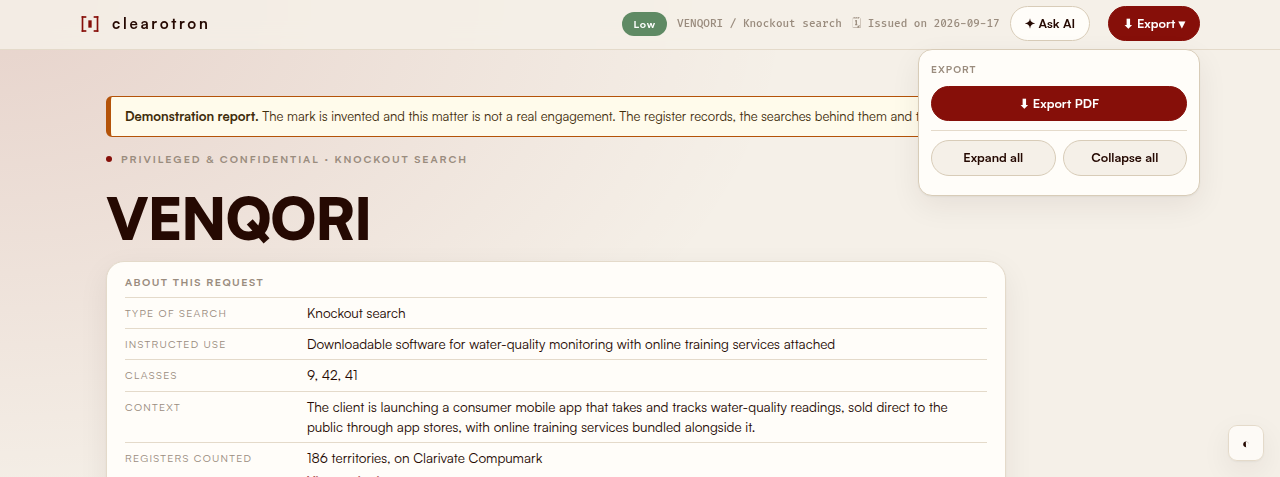
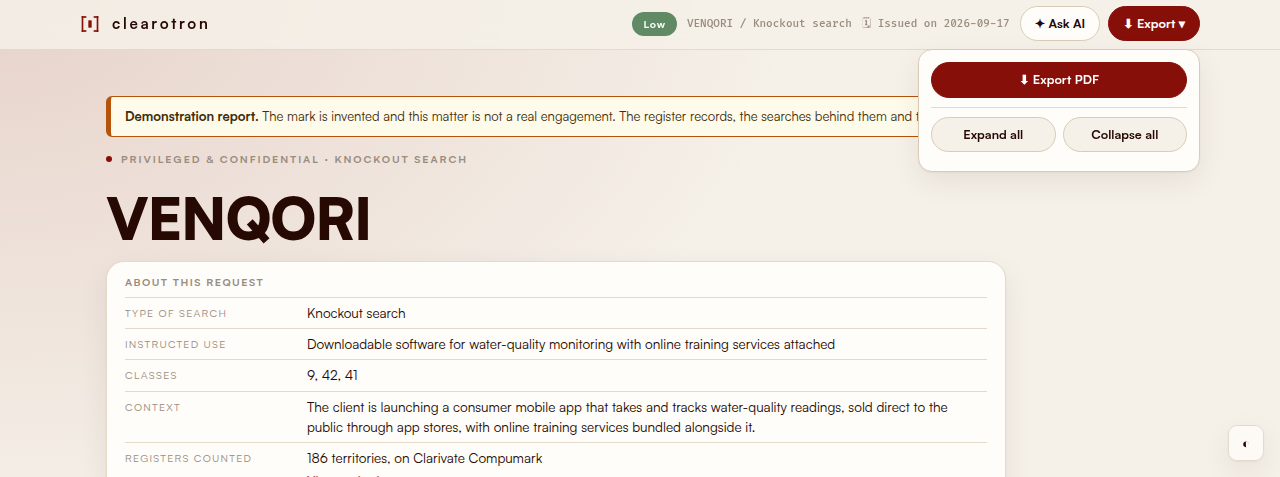
Report pack evidence: the final build, with the withdrawn sentences' images removed

Changed region(s): [[0.7188, 0.1174, 0.9375, 0.4109], [0.4688, 0.0294, 0.9375, 0.0881]]

diff --git a/343/report-pack/README.md b/343/report-pack/README.md
@@ -1,9 +1,9 @@
 # Report pack — what a reader sees, before and after
 
-Three changes on the 0.3.2-beta.8 integration branch alter a page a client reads. Every image below is
-a real report published by the real publisher from the demo runs in this repository: invented marks,
-invented owners, no client matter. "Before" is the branch point; "after" is the same run published from
-the same tree with the change in it.
+Two changes on the 0.3.2-beta.8 integration branch alter a page a client reads. Every image below is a
+real report published by the real publisher from the demo runs in this repository: invented marks,
+invented owners, no client matter. "Before" is the branch point; "after" is the same run published
+from the same tree with the change in it.
 
 ## The verdict's conditions
 
@@ -11,26 +11,27 @@ the same tree with the change in it.
 sentence: an identifier, its counts and four register record addresses, in the list a client reads as
 the conditions on their result.
 
-`verdict-conditions-after-*.png` — the same four conditions, the fourth now in the reader's words. The
-other three are unchanged. Light and dark, 1280 and 390.
-
-## What was searched
-
-`what-was-searched-before-light-*.png` — on a search whose register provider archives no record store,
-the fold has five rows and no register line at all. Every other absence in that list means "not part of
-this search", which is what the court-decisions row says in those words two lines down.
-
-`what-was-searched-after-*.png` — six rows: the register line says the number read was not recorded.
-Light and dark, 1280 and 390.
+`verdict-conditions-after-*.png` — the same four conditions, the fourth now in the sentence the engine
+had already written for a reader and then thrown away. The other three are unchanged. Light and dark
+at 1280, light at 390.
 
 ## The knockout's Export control
 
 `knockout-export-before-light-1280.png` — the top bar carries Ask AI and nothing else. A reader who
 opened the file had no route to a PDF.
 
-`knockout-export-*.png` — the Export control in the bar and its popover open, which is the only state
-worth photographing. The entry is a plain "Export PDF": a knockout has nothing to tick, so there is no
-tick wording and no select-all. Light and dark, 1280 and 390.
+`knockout-export-*.png` — the control in the bar and its menu open, which is the only state worth
+photographing. The board puts Ask AI and Export in one menu and draws the button and its caret; it
+does not draw what the menu contains, so the menu carries no heading and its entries are the clearance
+report's own words. There is no tick wording: a knockout has nothing to tick. Light and dark, 1280 and
+390.
+
+## What is no longer in this pack
+
+An earlier version added a line to the What-was-searched fold for a search that cannot report how many
+register records it read, and a line for each check a search decided to make and did not. Both were
+sentences written by a developer for a page whose presentation is designed, and both are out. The
+images for them have been removed rather than left here to be read as current.
 
 ## One thing these images show that is not ours
 
